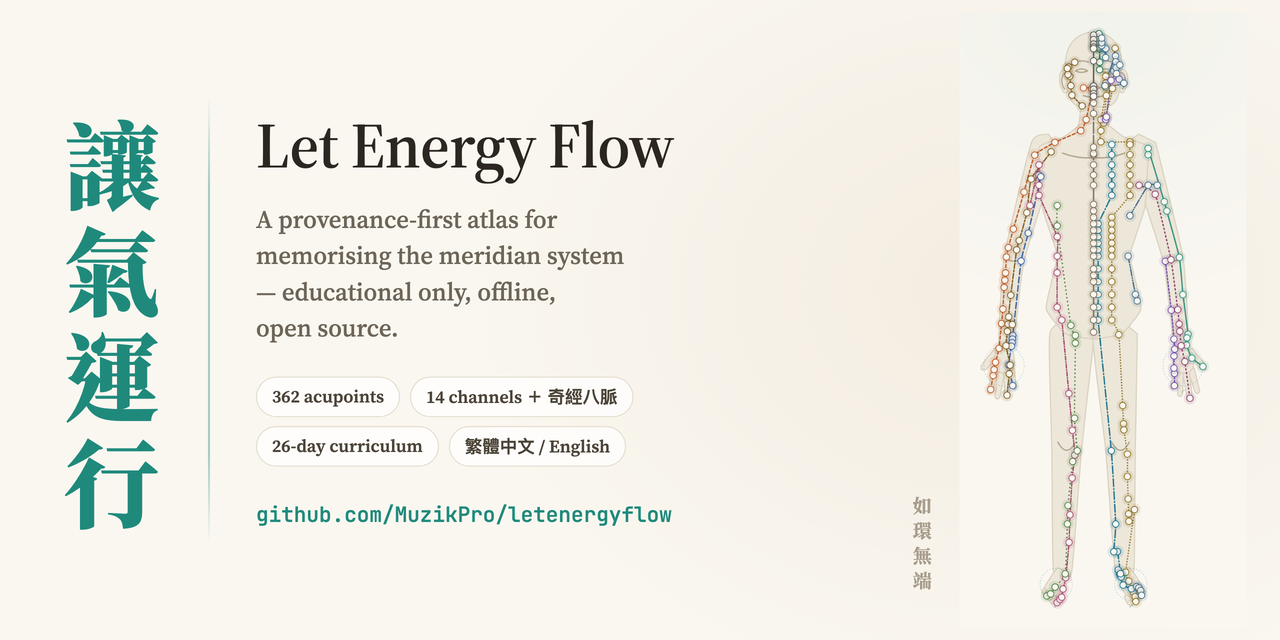
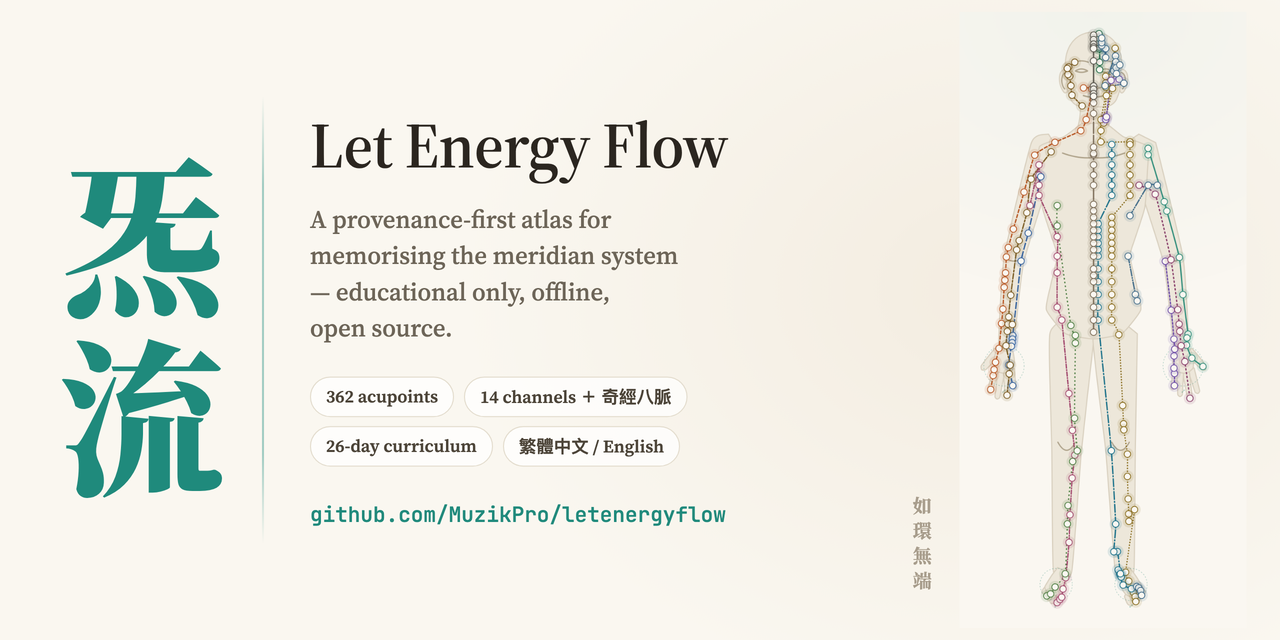
Rename the Chinese mark: 讓氣運行 -> 炁流
Owner's decision. 炁 is the Daoist primordial-qi character, and the
two-glyph mark reads as a name rather than a sentence. Applied to the
README heading, the og/twitter titles and image alt, and the social card
itself — which was redrawn for two characters (larger glyphs, rebalanced
column) rather than left with a four-character gap.

Note for anyone grepping: 氣運行 also appears inside an unrelated GB38
memory cue in editorial.ts. That is content, not the brand, and stays.

Changed region(s): [[0.0312, 0.1875, 0.5625, 0.8438], [0.1875, 0.7812, 0.5625, 0.8438], [0.1875, 0.5, 0.3438, 0.5312]]

diff --git a/index.html b/index.html
@@ -20,7 +20,7 @@
          1280x640 card used for the GitHub social preview (docs/social-card.png). -->
     <meta property="og:type" content="website" />
     <meta property="og:site_name" content="Let Energy Flow" />
-    <meta property="og:title" content="Let Energy Flow · 讓氣運行" />
+    <meta property="og:title" content="Let Energy Flow · 炁流" />
     <meta
       property="og:description"
       content="A provenance-first atlas for memorising the meridian system — 362 acupoints, 14 channels + 奇經八脈, 26-day curriculum. Educational only, offline, open source."
@@ -31,10 +31,10 @@
     <meta property="og:image:height" content="640" />
     <meta
       property="og:image:alt"
-      content="Let Energy Flow — 讓氣運行 — the meridian atlas figure beside the app name and repo URL"
+      content="Let Energy Flow — 炁流 — the meridian atlas figure beside the app name and repo URL"
     />
     <meta name="twitter:card" content="summary_large_image" />
-    <meta name="twitter:title" content="Let Energy Flow · 讓氣運行" />
+    <meta name="twitter:title" content="Let Energy Flow · 炁流" />
     <meta
       name="twitter:description"
       content="A provenance-first atlas for memorising the meridian system — educational only, offline, open source."

diff --git a/README.md b/README.md
@@ -1,4 +1,4 @@
-# Let Energy Flow · 讓氣運行
+# Let Energy Flow · 炁流
 
 A local-first, offline, installable web app for memorising the TCM meridian
 system and its 362 acupoints — the twelve regular channels, 任脈 and 督脈, and
